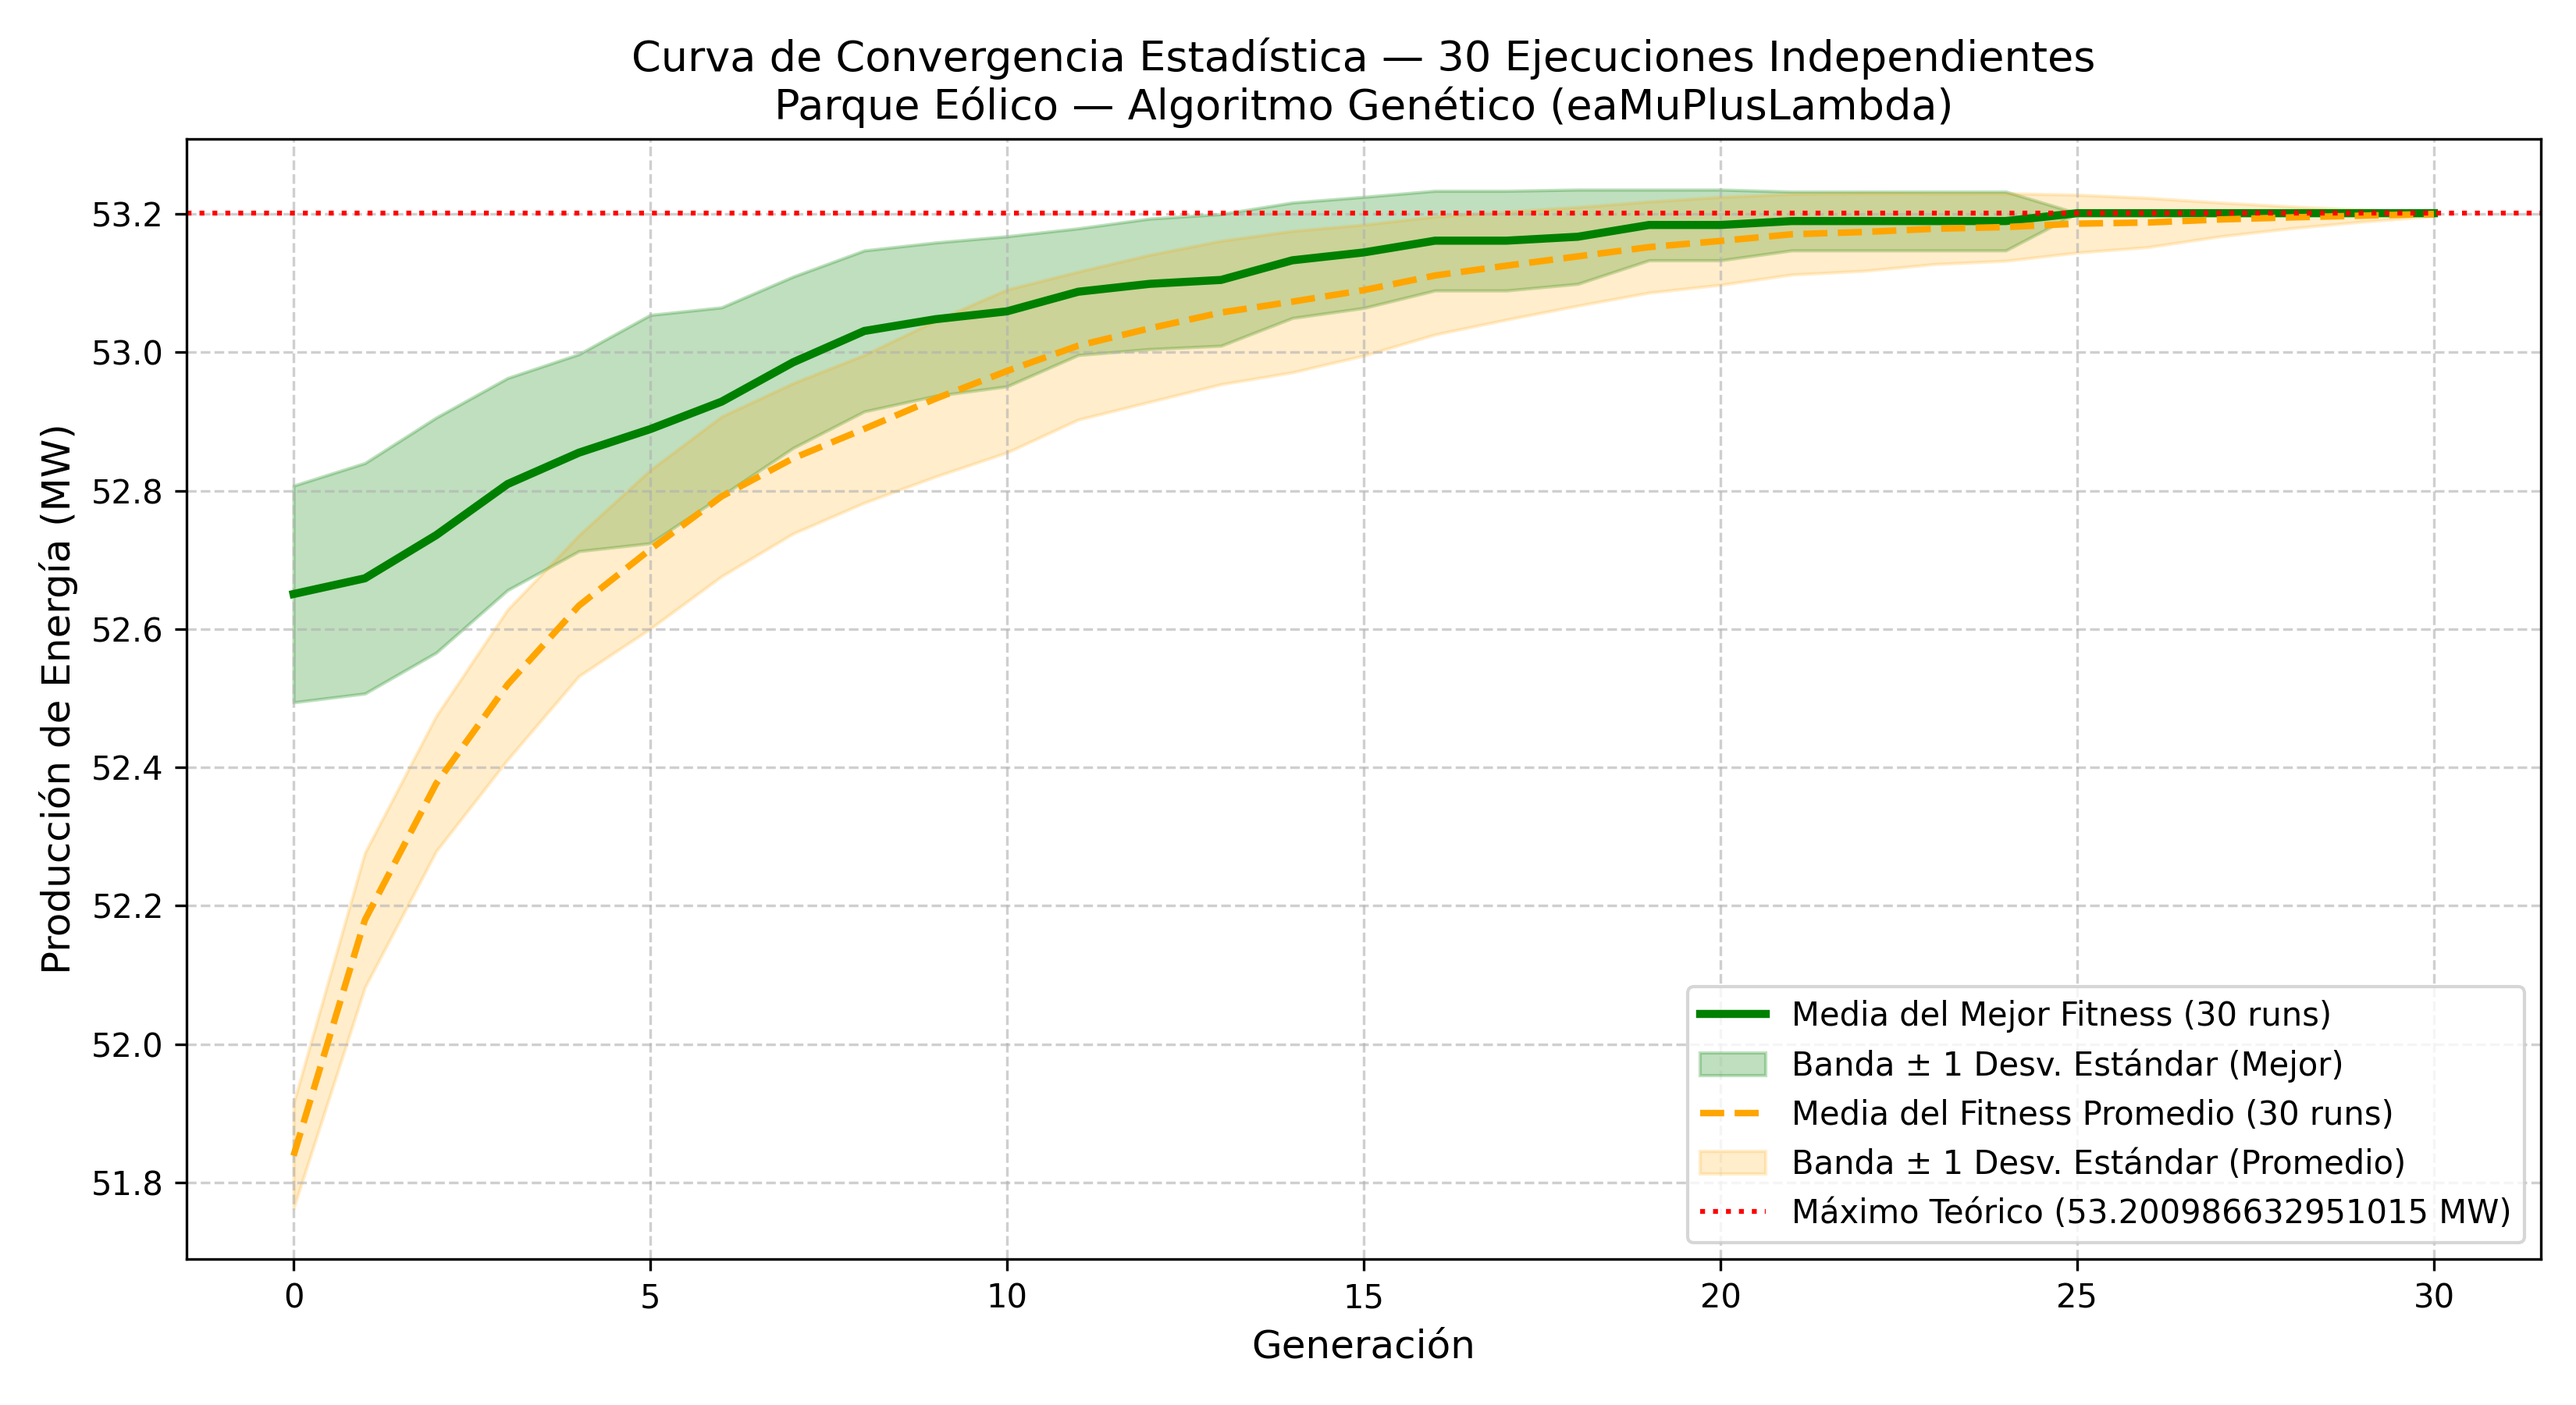
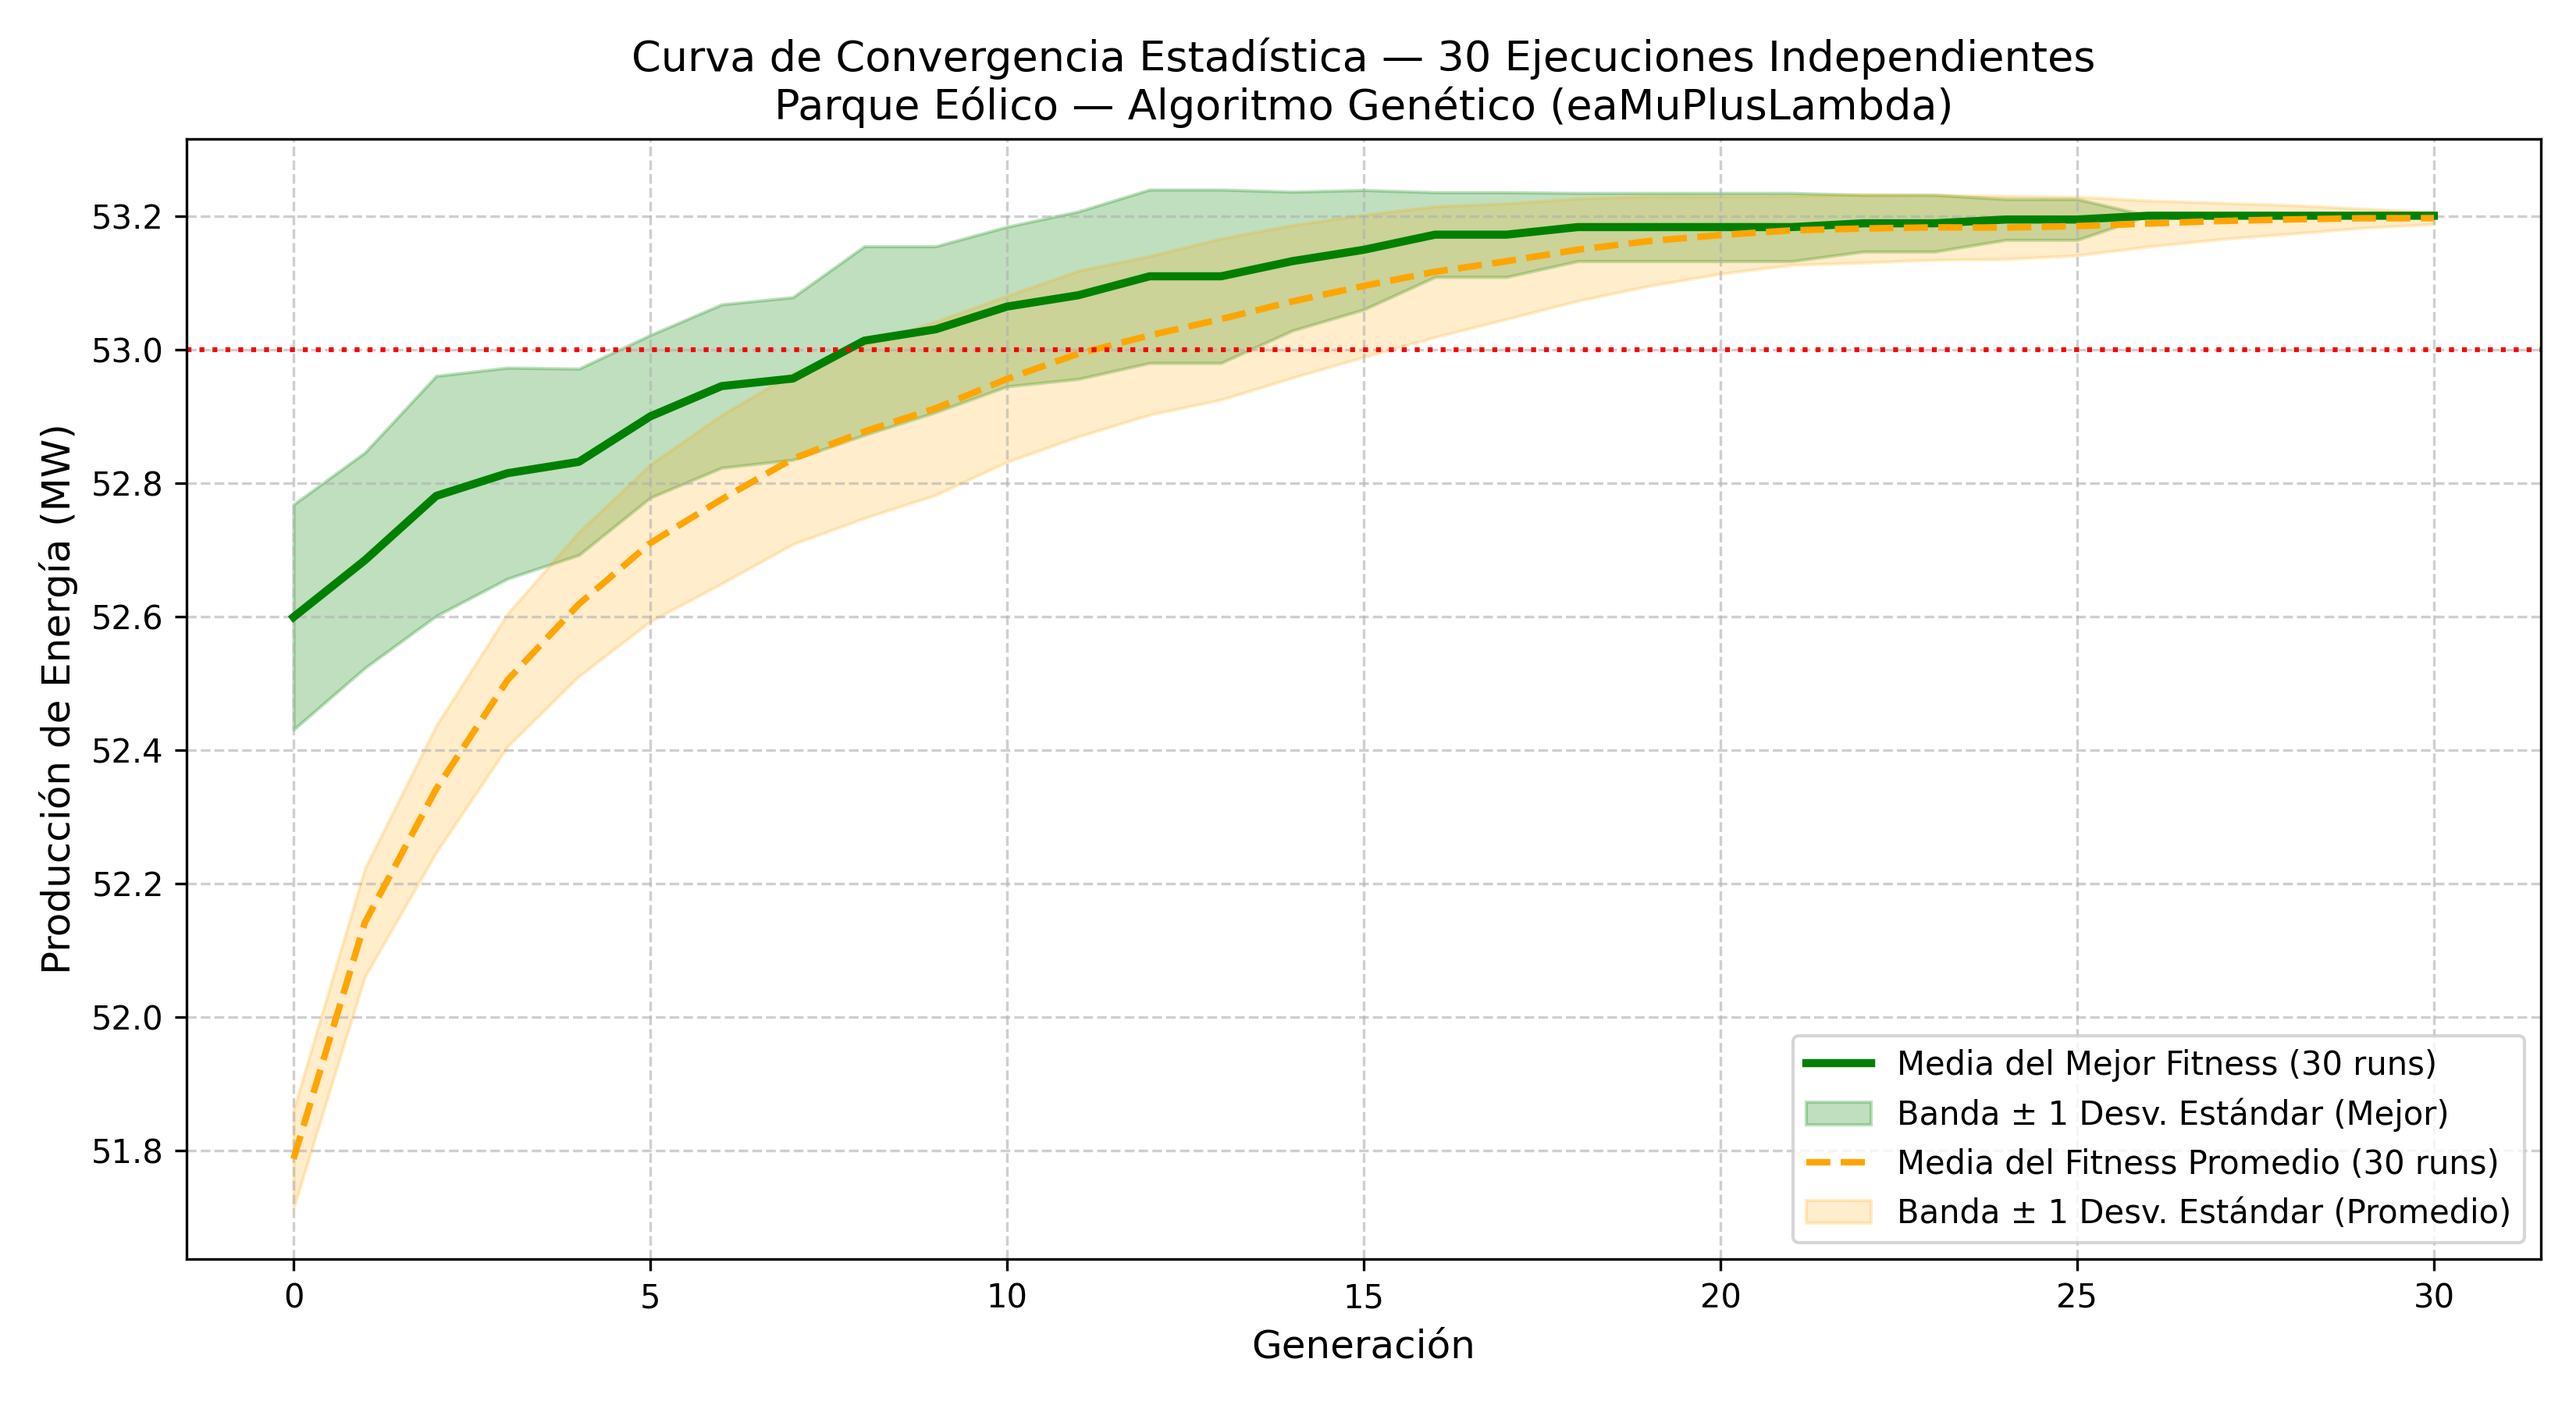
hola

diff --git a/ProyectoAerogeneradores/main.py b/ProyectoAerogeneradores/main.py
@@ -29,7 +29,8 @@ P_BASE = potenciaBase(1.225, 0.4, 40, 12)  # MW por molino
 #   R = 40 m (radio del rotor)
 #   A = πR2 (área generada por el rotor)
 #   v = 12 m/s (velocidad del viento)
-MAXIMO_TEORICO = (P_BASE * N_MOLINOS) / 1000000
+
+# MAXIMO_TEORICO = (P_BASE * N_MOLINOS) / 1000000
 
 # ==========================================
 # CONFIGURACIÓN DE DEAP (POBLACIÓN, TOOLBOX)
@@ -241,9 +242,7 @@ def ejecutar_una_vez(verbose=False):
 
     print("=" * 40)
     print("🥇 ALGORITMO GENETICO TERMINADO")
-    print(
-        f"Mejor Energía Obtenida: {energia_maxima:.2f} MW (Máximo teórico: {MAXIMO_TEORICO} MW)"
-    )
+    print(f"Mejor Energía Obtenida: {energia_maxima:.2f})")
     print("=" * 40)
 
     return logbook, campeon
@@ -351,11 +350,11 @@ def graficar_convergencia_estadistica(all_maximos, all_promedios, n_runs):
 
     # --- Referencia teórica ---
     ax.axhline(
-        y=MAXIMO_TEORICO,
+        y=53,
         color="red",
         linestyle=":",
         linewidth=1.5,
-        label=f"Máximo Teórico ({MAXIMO_TEORICO} MW)",
+
     )
 
     ax.set_title(
